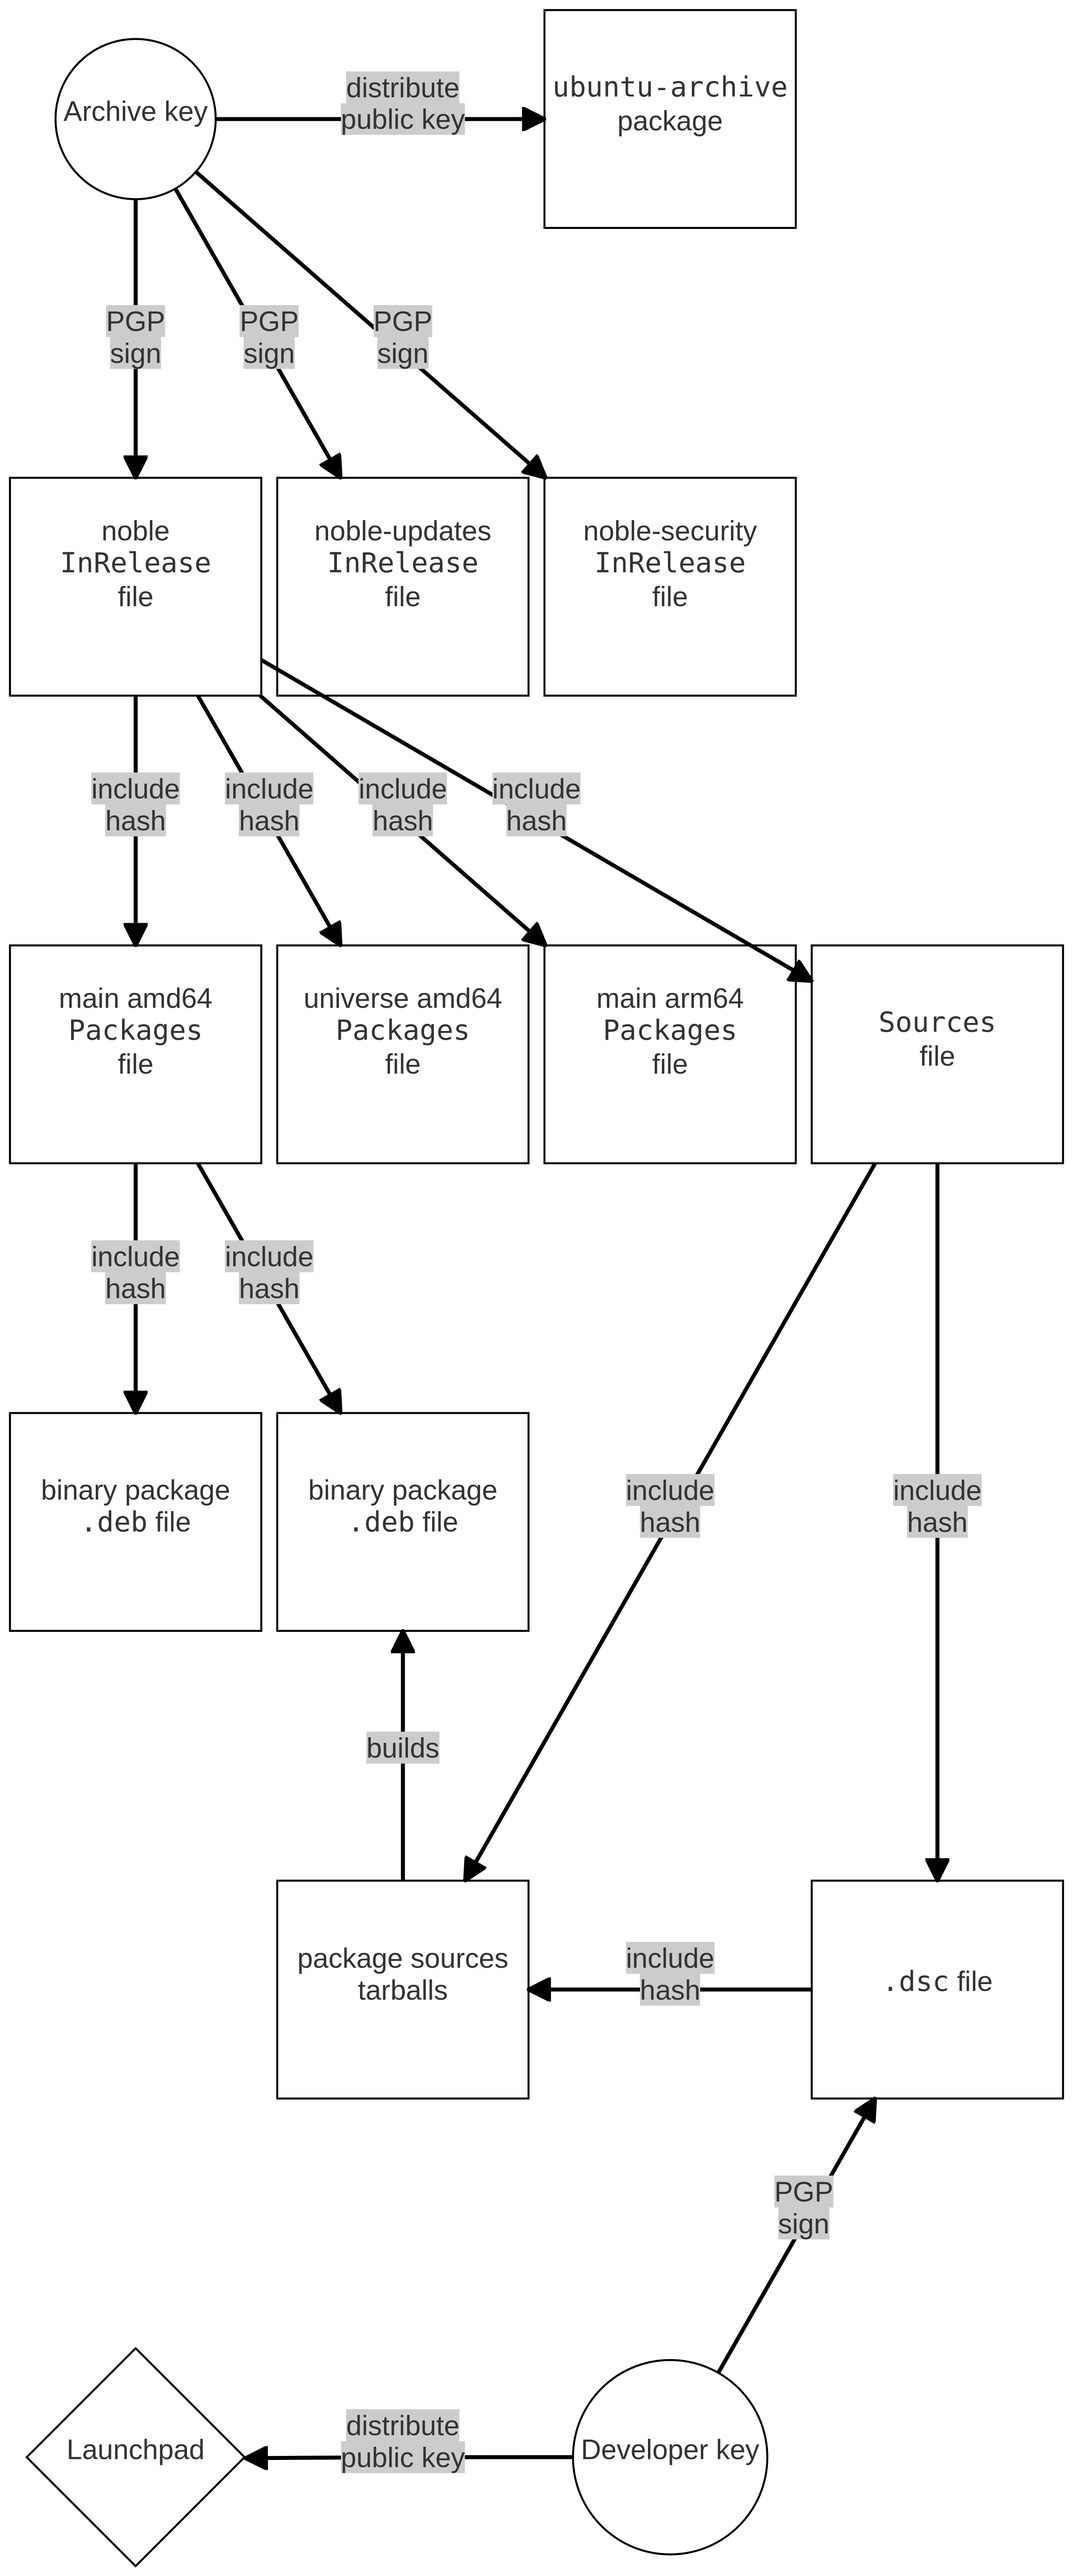
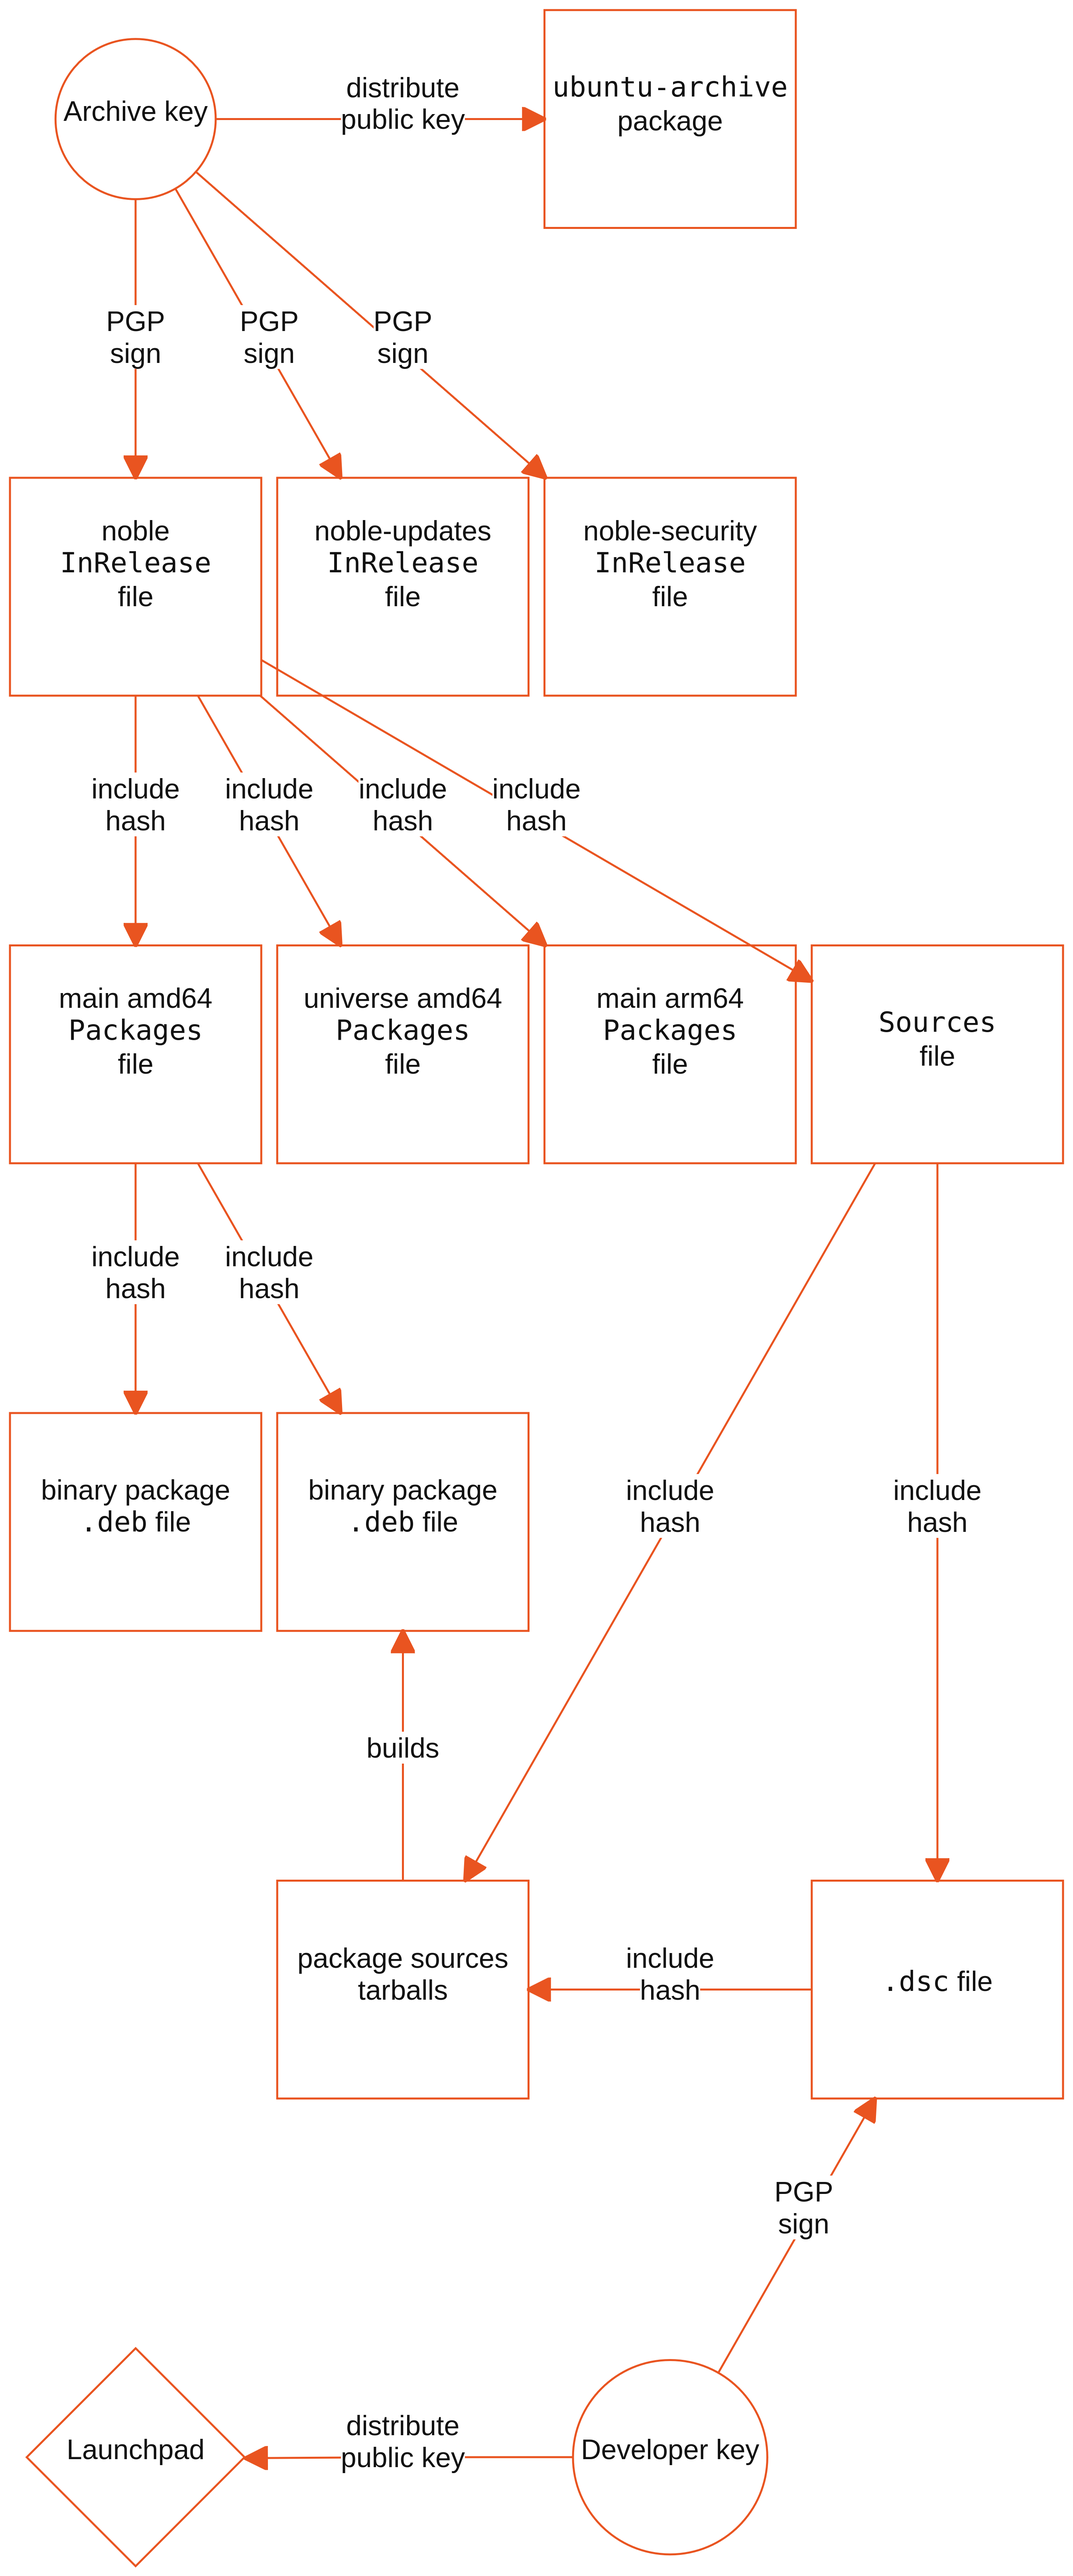
Made archive integrity diagram slightly prettier
It now uses the Ubuntu orange for arrows and borders to improve
visibility in dark mode.

diff --git a/software-integrity/archive-verification.rst b/software-integrity/archive-verification.rst
@@ -128,6 +128,16 @@ Signature scheme
 
 ..
    Mermaid code for diagram:
+   ---
+   config:
+       theme: 'base'
+       themeVariables:
+           primaryColor: '#ffffff'
+           lineColor: '#e95420'
+           secondaryColor: '#ffffff'
+           primaryTextColor: '#111111'
+           primaryBorderColor: '#e95420'
+   ---
    block-beta
     columns 4
         AK(("Archive key")) space:1
